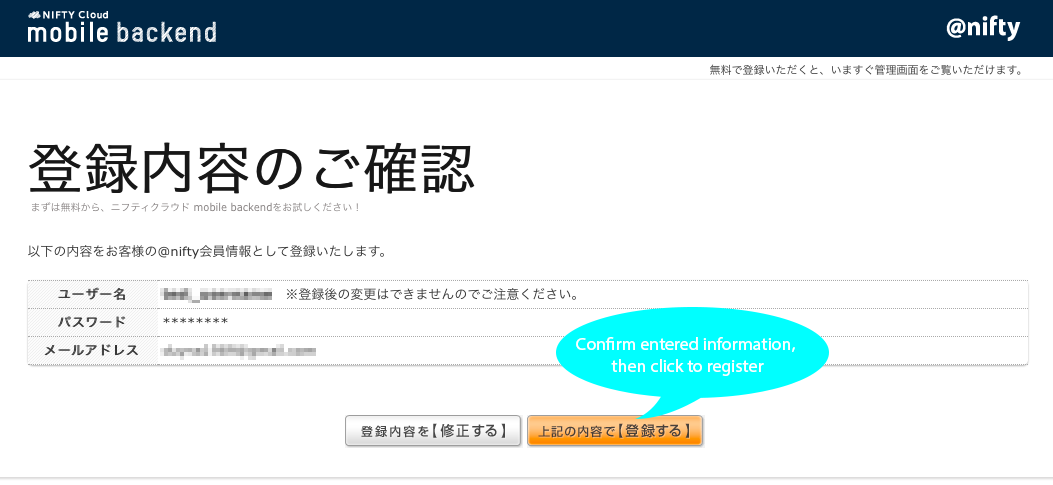
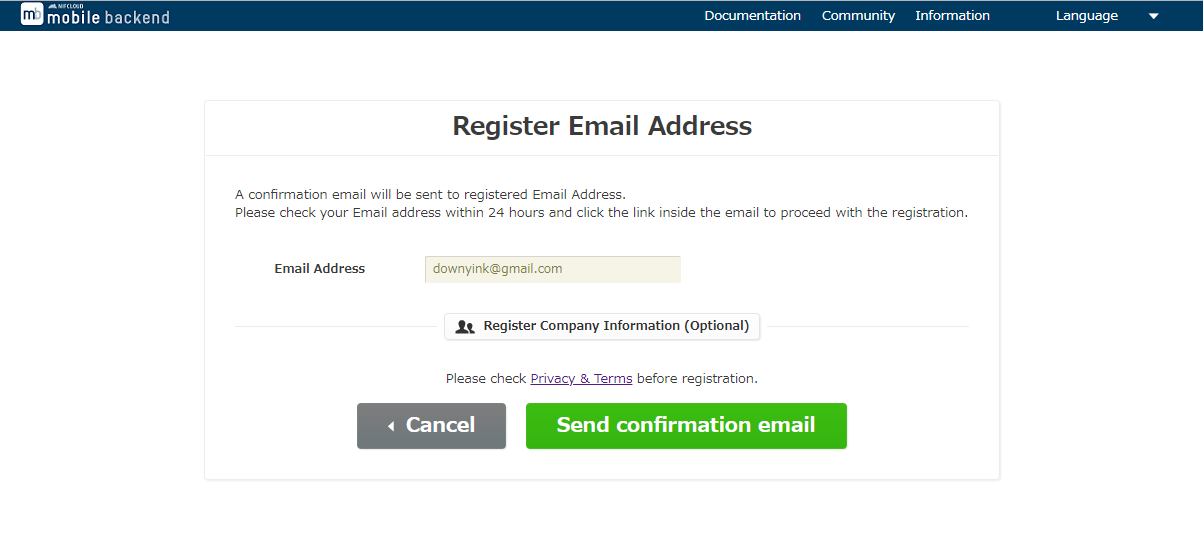
Fix English registration

diff --git a/README_en.md b/README_en.md
@@ -34,19 +34,22 @@ Android
 ## Procedure
 ### 1. Register membership of [NIFCLOUD mobile backend](http://mb.cloud.nifty.com/en) and login → Create application
 
-* Click on the above link to Register membership (free). The "Free ID Registration" screen will appear as shown below.
+* Click on the above link to `Sign up with SNS account`. The "Signup Account (Free)" screen will appear as shown below.
 
 ![AccountRegisterImage1](./readme-img/account_register_001.png)
 
-* Enter account's mandatory information, then click on "Register" button, the "Confirmation of registration contents" screen will appear as shown below.
+* Please select your SNS account (Facebook / Twitter / Google).
 
 ![AccountRegisterImage2](./readme-img/account_register_002.png)
 
-* When you finished confirm your information, click on button to register information. The "Completion of registration" screen will appear, you can see your @niftyID that has been issued.
+* When you finished integration your SNS account, please input your email address.
+* If you belong to the company, please input your company informations.
+* Then click on `Send confirmation email` button  to authenticate your account by email.
 
 ![AccountRegisterImage3](./readme-img/account_register_003.png)
 
-* Then click on "Log in" button to move to login page.
+* Then Log in from your mail to move to Term of service.
+* Please complete your account registration after agreeing it.
 
 ![AccountRegisterImage4](./readme-img/account_register_004.png)
 
